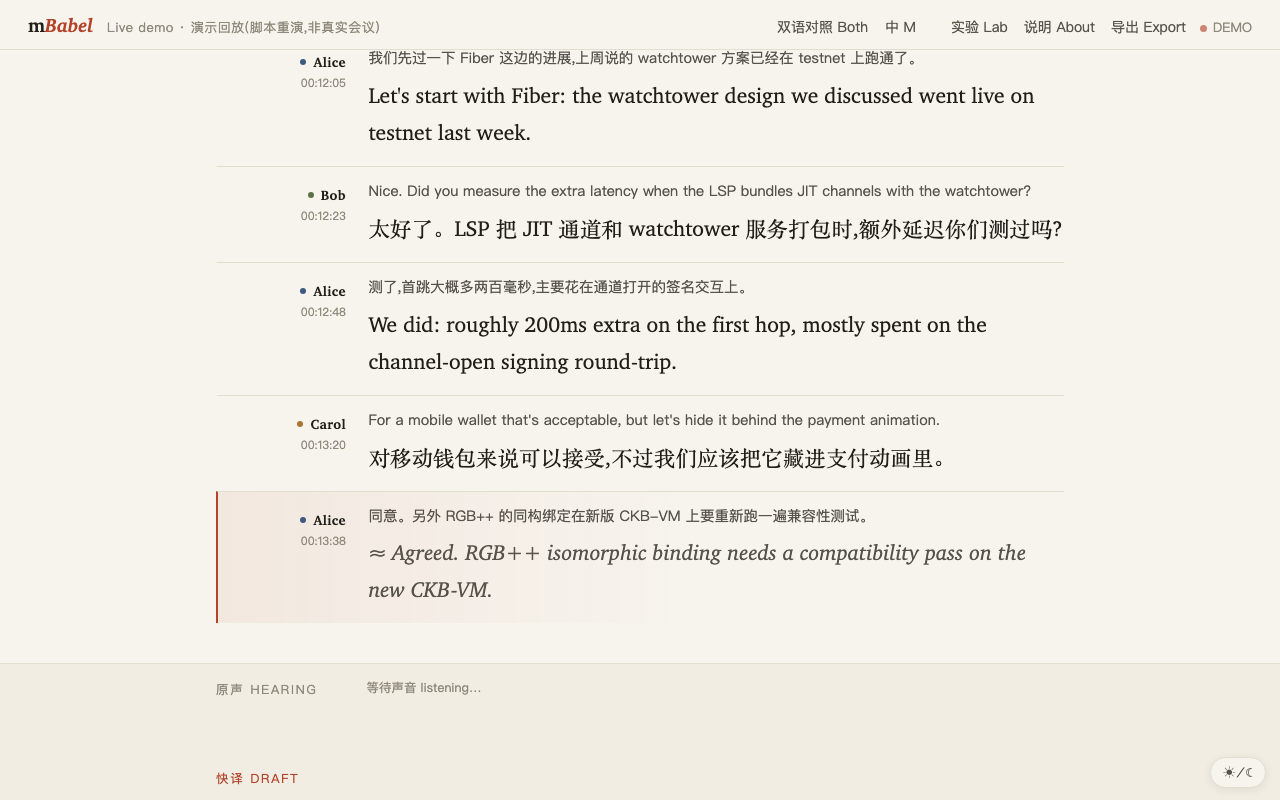
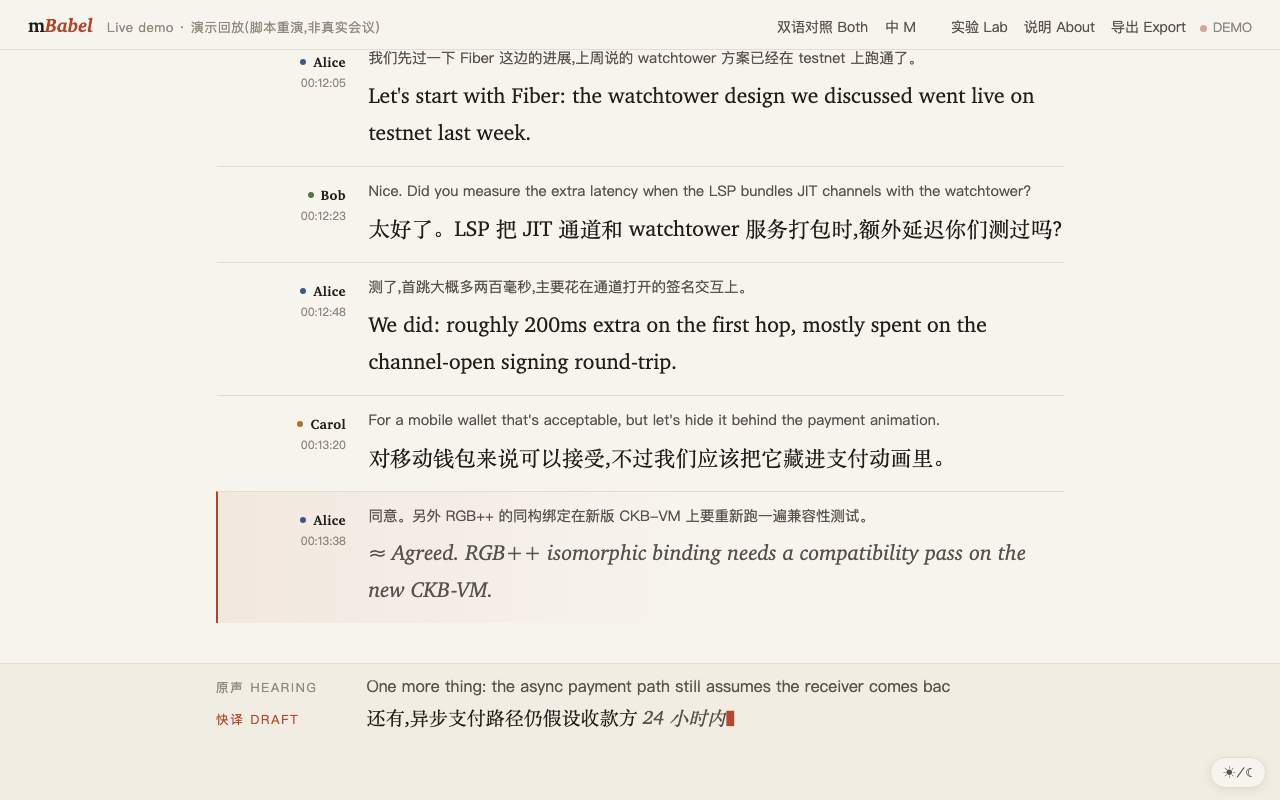
Draft strip: stable-prefix rendering, top-anchored growth
Retranslation rewrites the draft wholesale, and the old bottom-anchored
box shifted every line even on pure appends — nothing for the eye to
hold onto in fast, dense speech. Two changes, both client-only:

- Stability rendering (local-agreement style): the common prefix of two
  consecutive drafts renders as settled ink and is never repainted; the
  divergent tail renders in ink-2 italic — the same voice as the ≈
  provisional caption. Latin words are never split at the boundary.
- The draft box now grows from the top: the sentence starts on line one
  and settled words never move. Only when a 4th line appears does the
  box follow the tail, one whole line at a time, with the top fade
  applied only while overflowed. The DRAFT tag aligns with the first
  line (hearing keeps its tail-anchored single line).

Verified on the demo replay: prefix invariant holds across updates,
both themes, mobile overflow follow probed. Screenshot refreshed to a
frame showing all three stages at once.

Changed region(s): [[0.2812, 0.8438, 0.75, 0.9062], [0.1562, 0.8438, 0.25, 0.9062], [0.1562, 0.9688, 0.2188, 1.0]]

diff --git a/solution/ui.html b/solution/ui.html
@@ -103,10 +103,9 @@
   .trans.fallback { color: var(--ink-3); }
   body.single .orig { display: none; }
 
-  /* live strip: two one-line rows. Height follows the font-size preset but
-     is otherwise constant. Lines are TAIL-ANCHORED: the newest words stay
-     flush with the right edge, older words slide out through the left fade,
-     so the freshest text is never clipped at any width. */
+  /* live strip: hearing (1 line, tail-anchored spot-check) + draft (3
+     lines, top-anchored reading surface). Heights follow the font-size
+     preset but are otherwise constant: the strip never jumps. */
   .live {
     flex: 0 0 auto; border-top: 1px solid var(--hair); background: var(--strip);
     padding: 11px 0 13px;
@@ -114,16 +113,20 @@
   .live .inner {
     max-width: min(56rem, 94vw); margin: 0 auto; padding: 0 24px;
     display: grid; grid-template-columns: 8rem 1fr; gap: 6px 1.4rem;
-    align-items: end;  /* tags sit beside the freshest (bottom) line */
+    align-items: start;  /* tags align with the first line of each box */
   }
   .live .tag {
     text-align: left; font-size: 12.5px; letter-spacing: .14em;
     color: var(--ink-3); text-transform: uppercase; white-space: nowrap;
+    /* optically center the tag against the first text line of its box */
+    padding-top: calc((var(--fs-hear) * 1.45 - 15px) / 2);
   }
-  .live .tag.draft-tag { color: var(--accent); }
-  /* each box holds TWO lines, bottom-anchored: text wraps normally, the
-     newest words live on the last visible line, older lines slide up and
-     out through a short top fade. Fixed height: the strip never jumps. */
+  .live .tag.draft-tag {
+    color: var(--accent);
+    padding-top: calc((var(--fs-draft) * 1.45 - 15px) / 2);
+  }
+  /* default box behavior (hearing): bottom-anchored, newest words on the
+     last visible line, older lines fade out through the top mask. */
   .live .line {
     display: flex; flex-direction: column; justify-content: flex-end;
     overflow: hidden;
@@ -143,6 +146,19 @@
        strip is their only live context — a long sentence must fit */
     height: calc(var(--fs-draft) * 1.45 * 3);
   }
+  .live .drafting {
+    /* the sentence grows from the TOP: stable words never move. Only when
+       a 4th line appears does the box follow the tail, line by line. */
+    justify-content: flex-start;
+    -webkit-mask-image: none; mask-image: none;
+  }
+  .live .drafting.overflow {
+    -webkit-mask-image: linear-gradient(to bottom, transparent 0, #000 .5em);
+    mask-image: linear-gradient(to bottom, transparent 0, #000 .5em);
+  }
+  /* unsettled tail: words not yet confirmed by the next retranslation —
+     same voice as the ≈ provisional caption, works in both themes */
+  #draft-fresh { color: var(--ink-2); font-style: italic; }
   #drafting.on::after {
     content: '▌'; color: var(--accent); animation: breathe 1.1s infinite;
     font-family: var(--sans); font-size: calc(var(--fs-draft) * .8);
@@ -292,7 +308,7 @@
     <span class="tag">原声 <span class="t-en">hearing</span></span>
     <span class="line hearing"><span id="hearing"></span></span>
     <span class="tag draft-tag">快译 <span class="t-en">draft</span></span>
-    <span class="line drafting"><span id="drafting"></span></span>
+    <span class="line drafting"><span id="drafting"><span id="draft-stable"></span><span id="draft-fresh"></span></span></span>
   </div>
 </div>
 <button id="theme-pill" title="明暗主题 Light / dark">☀ ⁄ ☾</button>
@@ -353,8 +369,8 @@
     <div class="device-row" id="speaker-row" style="display:none">
       <label for="speaker-select"><span class="zh">你听声音的设备</span><span class="en">Your listening output</span></label>
       <select id="speaker-select"></select>
-      <p class="device-help zh">Phase 1 仍需在“音频 MIDI 设置”中把这个输出与 BlackHole 组成多输出设备，并让会议软件使用它。</p>
-      <p class="device-help en">Phase 1 still requires a Multi-Output Device containing this output and BlackHole; select it in the meeting app.</p>
+      <p class="device-help zh">会议软件的扬声器保持“系统默认”。</p>
+      <p class="device-help en">Keep the meeting app's speaker output on System Default.</p>
     </div>
   </div>
 </div>
@@ -451,6 +467,39 @@ function fmtTime(ts) {
 }
 function tailTrim(text, max = 240) {  // two-line boxes need a deeper tail buffer
   return text.length > max ? '…' + text.slice(-max) : text;
+}
+
+// Draft stability rendering: words that survived one retranslation cycle are
+// "stable" (full ink, never repainted); the divergent tail is "fresh" (ink-2
+// italic, the same voice as the ≈ provisional caption). The box is
+// top-anchored, so stable words never MOVE either — until a 4th line pushes
+// the sentence up, one whole line at a time (scrollHeight is line-quantized).
+const draftEl = document.getElementById('drafting');
+const draftBoxEl = draftEl.parentElement;
+const draftStableEl = document.getElementById('draft-stable');
+const draftFreshEl = document.getElementById('draft-fresh');
+let draftShown = '';
+function clearDraft() {
+  draftShown = '';
+  draftStableEl.textContent = '';
+  draftFreshEl.textContent = '';
+  draftEl.classList.remove('on');
+  draftBoxEl.classList.remove('overflow');
+  draftBoxEl.scrollTop = 0;
+}
+function renderDraft(text) {
+  let i = 0;
+  const max = Math.min(draftShown.length, text.length);
+  while (i < max && draftShown[i] === text[i]) i++;
+  // never split a latin word or number at the stable/fresh boundary
+  while (i > 0 && i < text.length
+         && /[A-Za-z0-9]/.test(text[i - 1]) && /[A-Za-z0-9]/.test(text[i])) i--;
+  draftStableEl.textContent = text.slice(0, i);
+  draftFreshEl.textContent = text.slice(i);
+  draftShown = text;
+  draftEl.classList.add('on');
+  draftBoxEl.scrollTop = draftBoxEl.scrollHeight;  // no-op until the 4th line
+  draftBoxEl.classList.toggle('overflow', draftBoxEl.scrollTop > 0);
 }
 function currentView() { return document.getElementById('view-sel').value; }
 
@@ -622,17 +671,14 @@ function connect() {
     else if (ev.type === 'draft') {
       const v = currentView();
       if (v !== 'both' && ev.lang && ev.lang !== (v === 'zh' ? 'en' : 'zh')) {
-        drafting.textContent = '';
-        drafting.classList.remove('on');
+        clearDraft();
       } else {
-        drafting.textContent = tailTrim(ev.text);  // same tail behavior as hearing
-        drafting.classList.add('on');
+        renderDraft(ev.text);
       }
     }
     else if (ev.type === 'committed') {
       hearing.textContent = '';
-      drafting.textContent = '';
-      drafting.classList.remove('on');
+      clearDraft();
       if (!seenIds.has(ev.id)) history.push(ev);
       appendSentence(ev);
     }
@@ -652,8 +698,7 @@ function connect() {
       pauseBtn.setAttribute('aria-pressed', ev.paused ? 'true' : 'false');
       if (ev.paused) {
         hearing.textContent = '';
-        drafting.textContent = '';
-        drafting.classList.remove('on');
+        clearDraft();
       }
       setLive(ev.paused ? 'paused' : 'resuming…');
     }
@@ -759,8 +804,9 @@ function onDevices(ev) {
   systemToggle.disabled = !ev.blackhole;
   speakerRow.style.display = systemToggle.checked ? '' : 'none';
   const blackholeNote = document.getElementById('blackhole-note');
+  blackholeNote.style.display = ev.blackhole ? 'none' : '';
   blackholeNote.textContent = ev.blackhole
-    ? 'BlackHole 2ch ready · 已就绪'
+    ? ''
     : '未安装 BlackHole 2ch：brew install blackhole-2ch';
   deviceBtn.textContent = ev.microphone || '无麦克风 No mic';
   deviceBtn.classList.toggle('warning', !!ev.warning);

diff --git a/docs/index.html b/docs/index.html
@@ -98,10 +98,9 @@
   .trans.fallback { color: var(--ink-3); }
   body.single .orig { display: none; }
 
-  /* live strip: two one-line rows. Height follows the font-size preset but
-     is otherwise constant. Lines are TAIL-ANCHORED: the newest words stay
-     flush with the right edge, older words slide out through the left fade,
-     so the freshest text is never clipped at any width. */
+  /* live strip: hearing (1 line, tail-anchored spot-check) + draft (3
+     lines, top-anchored reading surface). Heights follow the font-size
+     preset but are otherwise constant: the strip never jumps. */
   .live {
     flex: 0 0 auto; border-top: 1px solid var(--hair); background: var(--strip);
     padding: 11px 0 13px;
@@ -109,16 +108,20 @@
   .live .inner {
     max-width: min(56rem, 94vw); margin: 0 auto; padding: 0 24px;
     display: grid; grid-template-columns: 8rem 1fr; gap: 6px 1.4rem;
-    align-items: end;  /* tags sit beside the freshest (bottom) line */
+    align-items: start;  /* tags align with the first line of each box */
   }
   .live .tag {
     text-align: left; font-size: 12.5px; letter-spacing: .14em;
     color: var(--ink-3); text-transform: uppercase; white-space: nowrap;
+    /* optically center the tag against the first text line of its box */
+    padding-top: calc((var(--fs-hear) * 1.45 - 15px) / 2);
   }
-  .live .tag.draft-tag { color: var(--accent); }
-  /* each box holds TWO lines, bottom-anchored: text wraps normally, the
-     newest words live on the last visible line, older lines slide up and
-     out through a short top fade. Fixed height: the strip never jumps. */
+  .live .tag.draft-tag {
+    color: var(--accent);
+    padding-top: calc((var(--fs-draft) * 1.45 - 15px) / 2);
+  }
+  /* default box behavior (hearing): bottom-anchored, newest words on the
+     last visible line, older lines fade out through the top mask. */
   .live .line {
     display: flex; flex-direction: column; justify-content: flex-end;
     overflow: hidden;
@@ -134,6 +137,19 @@
     font-family: var(--serif); font-size: var(--fs-draft); line-height: 1.45; color: var(--ink);
     height: calc(var(--fs-draft) * 1.45 * 3);
   }
+  .live .drafting {
+    /* the sentence grows from the TOP: stable words never move. Only when
+       a 4th line appears does the box follow the tail, line by line. */
+    justify-content: flex-start;
+    -webkit-mask-image: none; mask-image: none;
+  }
+  .live .drafting.overflow {
+    -webkit-mask-image: linear-gradient(to bottom, transparent 0, #000 .5em);
+    mask-image: linear-gradient(to bottom, transparent 0, #000 .5em);
+  }
+  /* unsettled tail: words not yet confirmed by the next retranslation —
+     same voice as the ≈ provisional caption, works in both themes */
+  #draft-fresh { color: var(--ink-2); font-style: italic; }
   #drafting.on::after {
     content: '▌'; color: var(--accent); animation: breathe 1.1s infinite;
     font-family: var(--sans); font-size: calc(var(--fs-draft) * .8);
@@ -272,7 +288,7 @@
     <span class="tag">原声 <span class="t-en">hearing</span></span>
     <span class="line hearing"><span id="hearing"></span></span>
     <span class="tag draft-tag">快译 <span class="t-en">draft</span></span>
-    <span class="line drafting"><span id="drafting"></span></span>
+    <span class="line drafting"><span id="drafting"><span id="draft-stable"></span><span id="draft-fresh"></span></span></span>
   </div>
 </div>
 <button id="theme-pill" title="明暗主题 Light / dark">☀ ⁄ ☾</button>
@@ -405,6 +421,39 @@ function fmtTime(ts) {
 }
 function tailTrim(text, max = 240) {  // two-line boxes need a deeper tail buffer
   return text.length > max ? '…' + text.slice(-max) : text;
+}
+
+// Draft stability rendering: words that survived one retranslation cycle are
+// "stable" (full ink, never repainted); the divergent tail is "fresh" (ink-2
+// italic, the same voice as the ≈ provisional caption). The box is
+// top-anchored, so stable words never MOVE either — until a 4th line pushes
+// the sentence up, one whole line at a time (scrollHeight is line-quantized).
+const draftEl = document.getElementById('drafting');
+const draftBoxEl = draftEl.parentElement;
+const draftStableEl = document.getElementById('draft-stable');
+const draftFreshEl = document.getElementById('draft-fresh');
+let draftShown = '';
+function clearDraft() {
+  draftShown = '';
+  draftStableEl.textContent = '';
+  draftFreshEl.textContent = '';
+  draftEl.classList.remove('on');
+  draftBoxEl.classList.remove('overflow');
+  draftBoxEl.scrollTop = 0;
+}
+function renderDraft(text) {
+  let i = 0;
+  const max = Math.min(draftShown.length, text.length);
+  while (i < max && draftShown[i] === text[i]) i++;
+  // never split a latin word or number at the stable/fresh boundary
+  while (i > 0 && i < text.length
+         && /[A-Za-z0-9]/.test(text[i - 1]) && /[A-Za-z0-9]/.test(text[i])) i--;
+  draftStableEl.textContent = text.slice(0, i);
+  draftFreshEl.textContent = text.slice(i);
+  draftShown = text;
+  draftEl.classList.add('on');
+  draftBoxEl.scrollTop = draftBoxEl.scrollHeight;  // no-op until the 4th line
+  draftBoxEl.classList.toggle('overflow', draftBoxEl.scrollTop > 0);
 }
 function currentView() { return document.getElementById('view-sel').value; }
 
@@ -569,17 +618,14 @@ function connect() {
     else if (ev.type === 'draft') {
       const v = currentView();
       if (v !== 'both' && ev.lang && ev.lang !== (v === 'zh' ? 'en' : 'zh')) {
-        drafting.textContent = '';
-        drafting.classList.remove('on');
+        clearDraft();
       } else {
-        drafting.textContent = tailTrim(ev.text);  // same tail behavior as hearing
-        drafting.classList.add('on');
+        renderDraft(ev.text);
       }
     }
     else if (ev.type === 'committed') {
       hearing.textContent = '';
-      drafting.textContent = '';
-      drafting.classList.remove('on');
+      clearDraft();
       if (!seenIds.has(ev.id)) history.push(ev);
       appendSentence(ev);
     }
@@ -650,8 +696,7 @@ function demoReset() {
   history.length = 0;
   seenIds.clear();
   for (const k of Object.keys(transById)) delete transById[k];
-  hearing.textContent = ''; drafting.textContent = '';
-  drafting.classList.remove('on');
+  hearing.textContent = ''; clearDraft();
 }
 async function playTurn(ev, id, ts) {
   const src = ev.src, steps = Math.ceil(src.length / 3);
@@ -659,14 +704,13 @@ async function playTurn(ev, id, ts) {
     hearing.textContent = tailTrim(src.slice(0, i * 3));
     if (i % 4 === 2) {
       const frac = Math.min(1, i / steps + 0.1);
-      drafting.textContent = tailTrim(ev.draft.slice(0, Math.ceil(ev.draft.length * frac)));
-      drafting.classList.add('on');
+      renderDraft(ev.draft.slice(0, Math.ceil(ev.draft.length * frac)));
     }
     await dsleep(115);
   }
-  drafting.textContent = tailTrim(ev.draft); drafting.classList.add('on');
+  renderDraft(ev.draft);
   await dsleep(500);
-  hearing.textContent = ''; drafting.textContent = ''; drafting.classList.remove('on');
+  hearing.textContent = ''; clearDraft();
   const committed = {id, lang: ev.lang, source: src, speaker: ev.sp, ts};
   if (!seenIds.has(id)) history.push(committed);
   appendSentence(committed);
